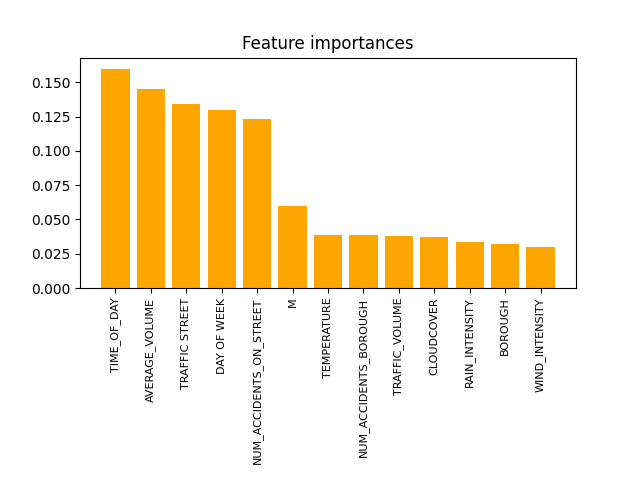
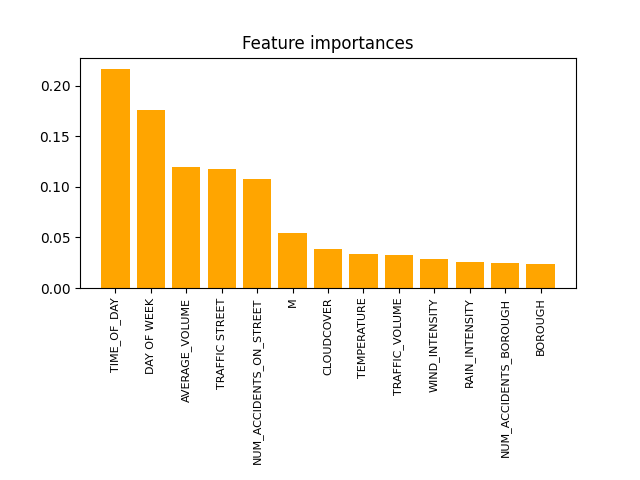
modifiche commenti

diff --git a/supervised/random_forest.py b/supervised/random_forest.py
@@ -22,12 +22,50 @@ def randomForest(data, categorical_features, numeric_features, target):
 
     mean_train_score_depth = []
     mean_test_score_depth = []
-    mean_train_score_trees = []
-    mean_test_score_trees = []
     mean_test_p = []
     mean_test_r = []
     mean_test_f = []
-    
+
+    mean_train_score_trees = []
+    mean_test_score_trees = []
+    mean_test_p_trees = []
+    mean_test_r_trees = []
+    mean_test_f_trees = []
+
+    #Valutazione modello con numero di alberi
+    for i in n_estimators_range:
+        clf = RandomForestClassifier(n_estimators=i, max_depth=10, criterion="entropy", random_state=0)
+        clf.fit(X_train, y_train)
+        y_train_pred = clf.predict(X_train)
+        y_test_pred = clf.predict(X_test)
+        mean_train_score_trees.append(accuracy_score(y_train, y_train_pred))
+        mean_test_score_trees.append(accuracy_score(y_test, y_test_pred))
+        mean_test_p_trees.append(precision_score(y_test, y_test_pred, average='macro', zero_division = 0))
+        mean_test_r_trees.append(recall_score(y_test, y_test_pred, average='macro'))
+        mean_test_f_trees.append(f1_score(y_test, y_test_pred, average='macro'))
+
+
+    plt.clf()
+    plt.figure(figsize=(8, 6))
+    plt.title('Train and Test score')
+    plt.plot(n_estimators_range, mean_train_score_trees, label="Training score")
+    plt.plot(n_estimators_range, mean_test_score_trees, label="Test score")
+    plt.xlabel("Number of Trees")
+    plt.ylabel("Score")
+    plt.legend()
+    plt.ylim([0.2, 1.0])
+    path = "images/rf_score_number_of_trees.png" 
+    plt.savefig(path)
+
+    print("Valutazione number of trees:")
+    print(f"Media test acc: {np.mean(mean_test_score_trees)}")
+    print(f"Media test prec: {np.mean(mean_test_p_trees)}")
+    print(f"Media test rec: {np.mean(mean_test_r_trees)}")
+    print(f"Media test f-measure: {np.mean(mean_test_f_trees)}")  
+
+
+
+#Valutazione modello con profondità degli alberi
     for i in max_depth_range:
         clf = RandomForestClassifier(n_estimators=100, max_depth=i, criterion="entropy", random_state=0)
         clf.fit(X_train, y_train)
@@ -38,14 +76,7 @@ def randomForest(data, categorical_features, numeric_features, target):
         mean_test_p.append(precision_score(y_test, y_test_pred, average='macro', zero_division = 0))
         mean_test_r.append(recall_score(y_test, y_test_pred, average='macro'))
         mean_test_f.append(f1_score(y_test, y_test_pred, average='macro'))
-    
-    for i in n_estimators_range:
-        clf = RandomForestClassifier(n_estimators=i, max_depth=10, criterion="entropy", random_state=0)
-        clf.fit(X_train, y_train)
-        y_train_pred = clf.predict(X_train)
-        y_test_pred = clf.predict(X_test)
-        mean_train_score_trees.append(accuracy_score(y_train, y_train_pred))
-        mean_test_score_trees.append(accuracy_score(y_test, y_test_pred))
+
         
     plt.clf()
     plt.figure(figsize=(8, 6))
@@ -56,23 +87,11 @@ def randomForest(data, categorical_features, numeric_features, target):
     plt.ylabel("Score")
     plt.legend()
     plt.ylim([0.2, 1.0])
-    # Specifica il percorso completo del file in cui salvare il grafico 
     path = "images/rf_score_depth.png" 
     plt.savefig(path)
-    
-    plt.clf()
-    plt.figure(figsize=(8, 6))
-    plt.title('Train and Test score')
-    plt.plot(n_estimators_range, mean_train_score_trees, label="Training score")
-    plt.plot(n_estimators_range, mean_test_score_trees, label="Test score")
-    plt.xlabel("Number of Trees")
-    plt.ylabel("Score")
-    plt.legend()
-    plt.ylim([0.2, 1.0])
-    # Specifica il percorso completo del file in cui salvare il grafico 
-    path = "images/rf_score_number_of_trees.png" 
-    plt.savefig(path)
 
+
+    print("\nValutazione tree depth:")
     print(f"Media test acc: {np.mean(mean_test_score_depth)}")
     print(f"Media test prec: {np.mean(mean_test_p)}")
     print(f"Media test rec: {np.mean(mean_test_r)}")

diff --git a/supervised/classifier.py b/supervised/classifier.py
@@ -10,7 +10,7 @@ from naiveBayesCategorico import naiveBayesCategorical
 def printFeatureRanking(clf, X, path):
     importances = clf.feature_importances_
     indices = np.argsort(importances)[::-1]
-    print("Feature ranking:")
+    print("\nFeature ranking:")
     for f in range(0, 4):
         print("%d. %s (%f)" % (f+1, X.columns[indices[f]], importances[indices[f]]))
 
@@ -23,7 +23,6 @@ def printFeatureRanking(clf, X, path):
     plt.xlim([-1, X.shape[1]])
     plt.subplots_adjust(bottom=0.4)
 
-    # Salva il grafico nella directory specificata 
     plt.savefig(path)
 
 # Caricamento del dataset
@@ -37,22 +36,22 @@ numeric_features = ["M", "CLOUDCOVER", "AVERAGE_VOLUME", 'NUM_ACCIDENTS_BOROUGH'
 target = "IS_NOT_DANGEROUS"
 X = data[categorical_features + numeric_features]
 
-print("---DECISION TREE---")
+print("\n---DECISION TREE---")
 clf = decisionTree(data, categorical_features, numeric_features, target)
 printFeatureRanking(clf, X, "images/features/dt_feature.png" )
 
-print("---RANDOM FOREST---")
+print("\n---RANDOM FOREST---")
 clf = randomForest(data, categorical_features, numeric_features, target)
 printFeatureRanking(clf, X, "images/features/rf_feature.png" )
 
-print("---ADA BOOST---")
+print("\n---ADA BOOST---")
 clf = adaBoost(data, categorical_features, numeric_features, target)
 printFeatureRanking(clf, X, "images/features/ab_feature.png" )
 
-print("---GRADIENT BOOST---")
+print("\n---GRADIENT BOOST---")
 clf = gradientBoost(data, categorical_features, numeric_features, target)
 printFeatureRanking(clf, X, "images/features/gb_feature.png" )
 
-print("---NAIVE BAYES CATEGORICAL---")
+print("\n---NAIVE BAYES CATEGORICAL---")
 clf = naiveBayesCategorical(data, categorical_features, target)
 

diff --git a/clustering.py b/clustering.py
@@ -31,7 +31,6 @@ plt.plot(range(1, 11), inertias)
 plt.title('Curva di elbow')
 plt.xlabel('Numero di cluster')
 plt.ylabel('Inerzia')
-# Specifica il percorso completo del file in cui salvare il grafico 
 path = "images/elbow.png" 
 plt.savefig(path)
 
@@ -67,7 +66,6 @@ for label in cluster_labels:
     plt.scatter([], [], color=cmap(label), alpha=0.5, label='Cluster {}'.format(label))
 plt.legend(title="Cluster", loc="upper right", markerscale=1, fontsize=10)
 
-# Specifica il percorso completo del file in cui salvare il grafico 
 path = "images/clustering.png" 
 plt.savefig(path)
 

diff --git a/belief_network.py b/belief_network.py
@@ -101,9 +101,8 @@ if model.check_model():
     right_margin = max_size - x_size - left_margin
     plt.xlim(x_min - left_margin - x_margin, x_max + right_margin + x_margin)
     
-    # Specifica il percorso completo del file in cui salvare il grafico 
+
     path = "images/belief_network.png" 
-    # Salva il grafico nella directory specificata 
     plt.savefig(path)
 
     # Effettua l'inferenza per calcolare la probabilità che l'evento "IS_NOT_DANGEROUS" si verifichi dati alcuni valori

diff --git a/supervised/gradient_boost.py b/supervised/gradient_boost.py
@@ -45,9 +45,7 @@ def gradientBoost(data, categorical_features, numeric_features, target):
     plt.legend()
     plt.ylim([0.2, 1.0])
     
-    # Specifica il percorso completo del file in cui salvare il grafico 
     path = "images/gb_score.png" 
-    # Salva il grafico nella directory specificata 
     plt.savefig(path)
 
     print(f"Media test acc: {np.mean(mean_test_score)}")

diff --git a/supervised/decision_tree.py b/supervised/decision_tree.py
@@ -47,9 +47,7 @@ def decisionTree(data, categorical_features, numeric_features, target):
     plt.legend()
     plt.ylim([0.2, 1.0])
     
-    # Specifica il percorso completo del file in cui salvare il grafico 
     path = "images/dt_score.png" 
-    # Salva il grafico nella directory specificata 
     plt.savefig(path)
 
     print(f"Media test acc: {np.mean(mean_test_score)}")

diff --git a/data/knn.py b/data/knn.py
@@ -57,9 +57,7 @@ def borough_prediction():
     plt.ylabel("Accuratezza")
     plt.legend()
     
-    # Specifica il percorso completo del file in cui salvare il grafico 
     path = "images/knn_accuracy.png" 
-    # Salva il grafico nella directory specificata 
     plt.savefig(path)
 
     best_k=grid.best_params_['n_neighbors'] #il valore ottenuto è 5

diff --git a/supervised/ada_boost.py b/supervised/ada_boost.py
@@ -47,9 +47,7 @@ def adaBoost(data, categorical_features, numeric_features, target):
     plt.legend()
     plt.ylim([0.2, 1.0])
     
-    # Specifica il percorso completo del file in cui salvare il grafico 
     path = "images/ab_score.png" 
-    # Salva il grafico nella directory specificata 
     plt.savefig(path)
 
 
